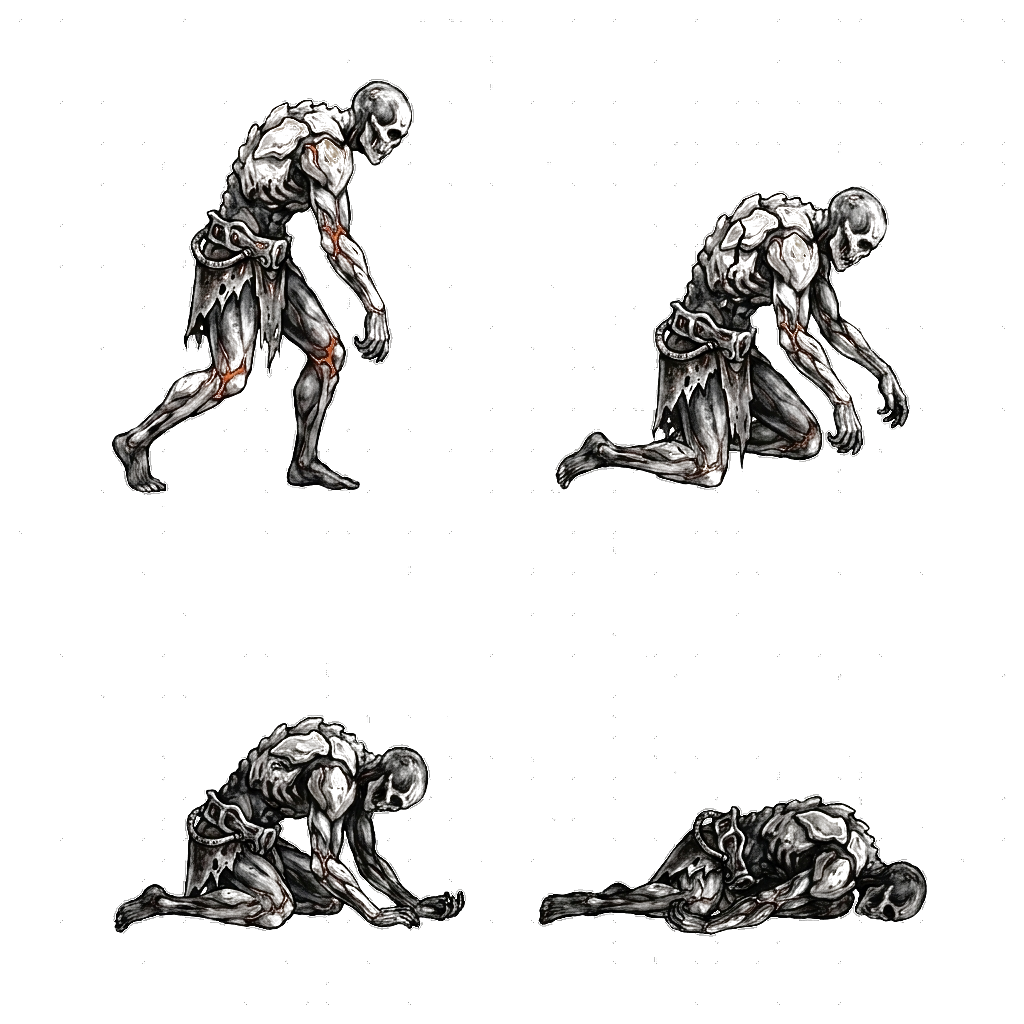
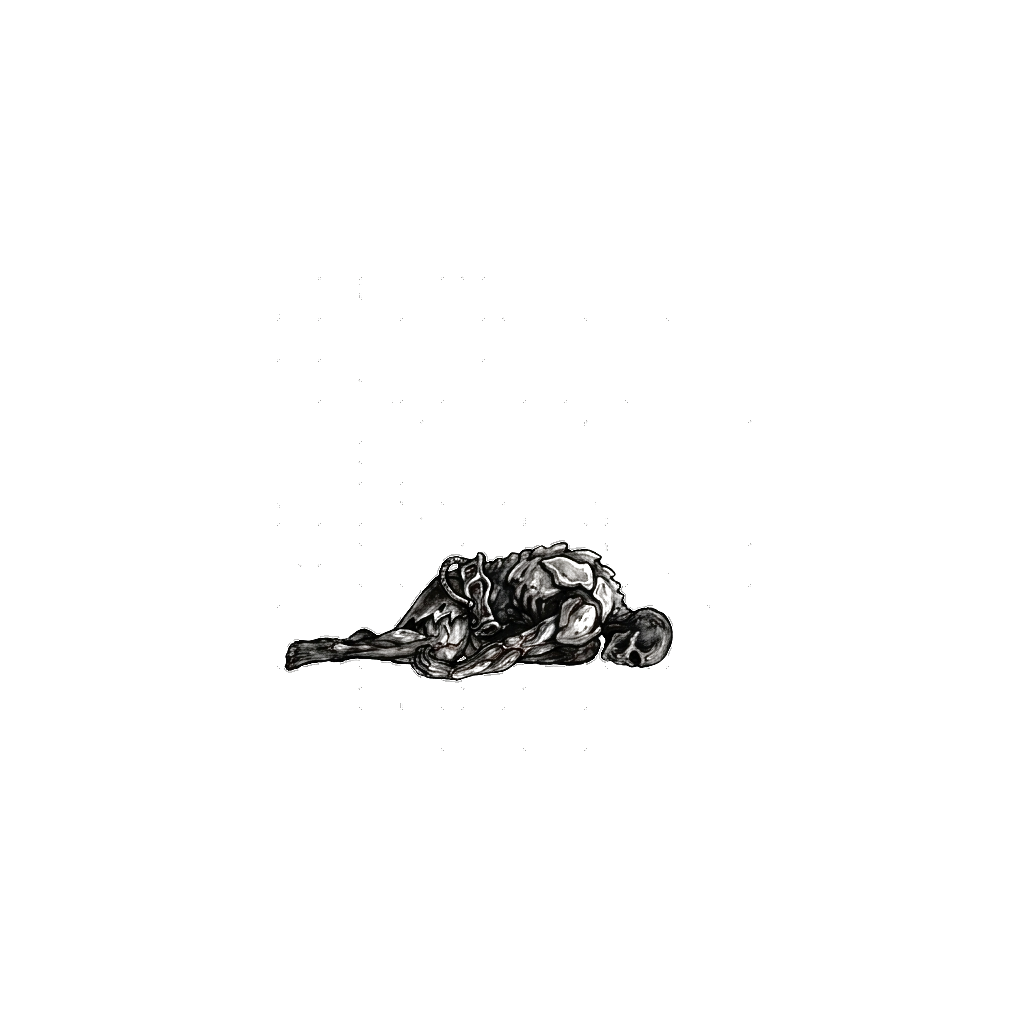
Design workorder f50bee9: rescue d02, tighten pile_05, add pose-sheet guard
- cinder_husk death_02: crop the prone quadrant out of the 2x2 pose
  sheet (4 same-scale comps -> 1 subject, 23.7k px matching the pile
  mass), recentered on 1024, foot anchor resynced; vision pass:
  single subject, no truncation, family colors, 02->03 smooth
  (01->02 collapse beat slightly fast - noted back to design)
- fx_ember_pile_05: one moderate tighten pass (ring fog 29.7 ->
  14.2%, far strays dropped, solid mass intact)
- audit_enemy_sample: pose_sheet_check() flags any body frame with
  >=2 components at >=8% of the largest - verified it catches the
  old death_02 (4 comps, ratio 0.96) and passes the rescue

diff --git a/tools/audit_enemy_sample.py b/tools/audit_enemy_sample.py
@@ -97,6 +97,26 @@ def death_continuity(kind, death_style="collapse"):
         prev = dm
 
 
+def pose_sheet_check(path, big_frac=0.08):
+    """Design ruling f50bee9: body frames must be a single subject.
+
+    A 2x2/1x4 pose sheet shows up as several same-scale components
+    (cinder_husk death_02 pre-fix: 4 comps of ~24-33k px each). Flag any
+    frame with >=2 components each >= big_frac of the largest one.
+    """
+    from scipy import ndimage
+    al = np.array(Image.open(path).convert("RGBA"))[:, :, 3]
+    m = al > 100
+    if m.sum() < 500:
+        return 1, 0.0
+    lab, n = ndimage.label(m)
+    sizes = np.sort(np.array([s for s in ndimage.sum(m, lab, range(1, n + 1)) if s > 50]))[::-1]
+    if len(sizes) == 0:
+        return 1, 0.0
+    majors = int((sizes >= sizes[0] * big_frac).sum())
+    return majors, (sizes[1] / sizes[0] if len(sizes) > 1 else 0.0)
+
+
 def audit(kind):
     print(f"=== enemy_{kind}")
     band, accent, fx_pref, death_style = SPEC[kind]
@@ -108,9 +128,17 @@ def audit(kind):
         r = frame_audit(p)
         hs = hue_stats(r.get("arr", np.zeros((4, 4, 4))))
         band_share = ((hs[0] >= band[0]) & (hs[0] < band[1])).mean() * 100 if hs is not None else -1
+        majors, ratio = pose_sheet_check(p)
+        sheet = " POSE-SHEET!" if majors > 1 else ""
         print(f"  idle_{i:02d}: {r['flag']:4s} faint {r.get('faint', -1):4.1f}% touch {r.get('touch')} "
-              f"family_band {band_share:4.0f}% vivid {hs[1] if hs else 0:4.1f}%")
+              f"family_band {band_share:4.0f}% vivid {hs[1] if hs else 0:4.1f}% comps {majors}{sheet}")
     print("  death chain vs idle_00:")
+    for st in range(4):
+        dp = ANIM / f"enemy_{kind}_death_{st:02d}.png"
+        if dp.exists():
+            majors, ratio = pose_sheet_check(dp)
+            if majors > 1:
+                print(f"  death_{st:02d}: POSE-SHEET! {majors} same-scale comps (2nd/1st {ratio:.2f})")
     death_continuity(kind, death_style)
     fx = sorted(p.name for p in ANIM.glob(f"{fx_pref}*.png"))
     print(f"  behavior FX ({fx_pref}*): {len(fx)} files {fx[:4]}")
